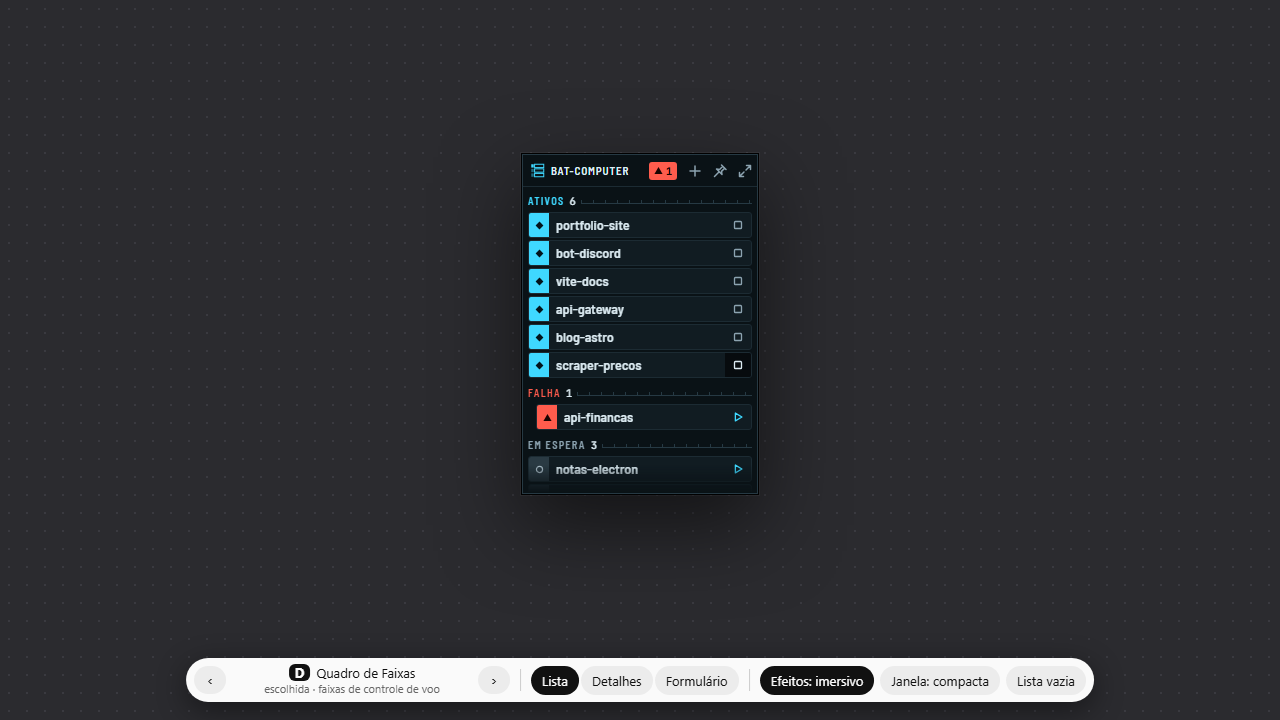
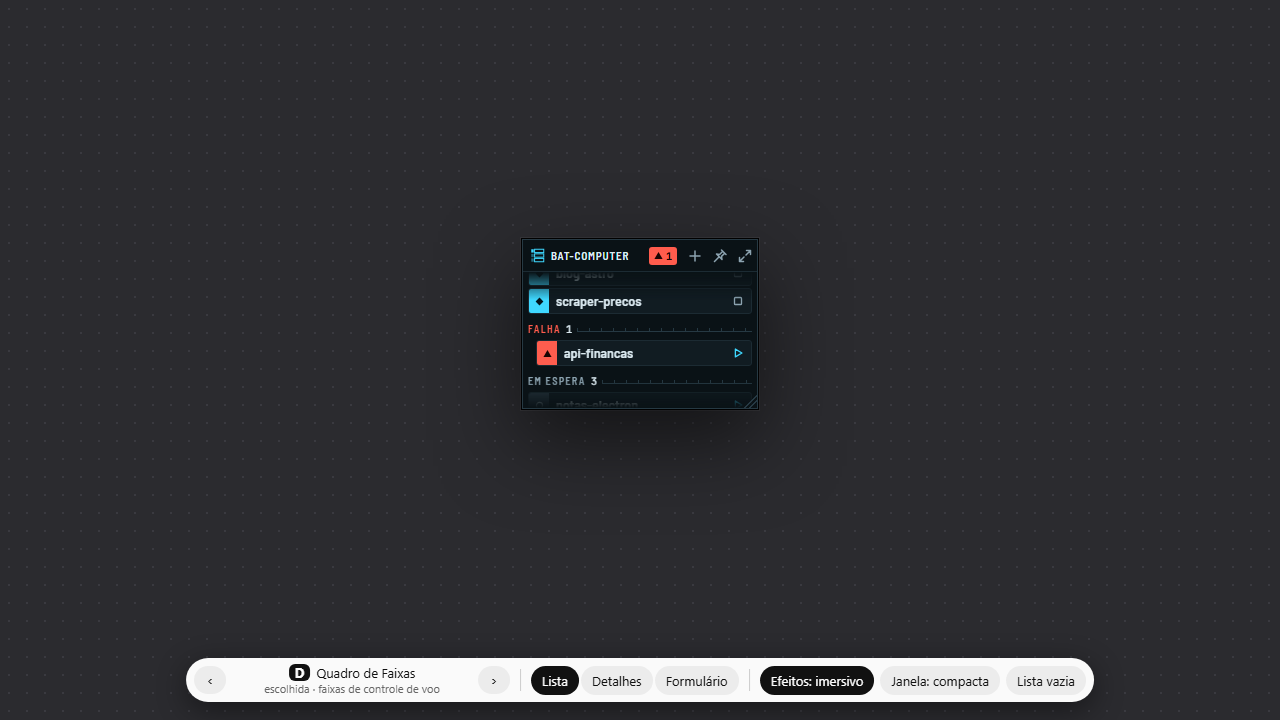
prototype(LUC-119): coluna compacta aprovada (236x170, redimensionável)

Changed region(s): [[0.4062, 0.2139, 0.5938, 0.7028]]

diff --git a/prototypes/luc-119-identidade-visual/index.html b/prototypes/luc-119-identidade-visual/index.html
@@ -577,7 +577,7 @@ body{background:#2b2b2f;background-image:radial-gradient(#3a3a40 1px,transparent
 .vD .d-menu .danger{color:var(--red)}
 .vD .toast{background:var(--face2);border:1px solid var(--line);border-radius:3px;padding:8px 14px;font-size:13px;box-shadow:0 10px 28px rgba(0,0,0,.55)}
 .vD.size-c{overflow:visible}
-.vD .m-box{width:236px;height:340px;display:grid;grid-template-rows:32px minmax(0,1fr);background:var(--rack);border:1px solid var(--line)}
+.vD .m-box{width:236px;height:170px;min-width:200px;min-height:110px;max-width:420px;max-height:640px;resize:both;overflow:hidden;display:grid;grid-template-rows:32px minmax(0,1fr);background:var(--rack);border:1px solid var(--line)}
 .vD .m-head{display:flex;align-items:center;gap:1px;padding:0 3px 0 7px;border-bottom:1px solid var(--rule)}
 .vD .m-grip{flex:1;min-width:0;display:flex;align-items:center;gap:6px;height:24px;color:var(--cyan);cursor:grab}
 .vD .m-grip b{font:600 11px "Barlow Semi Condensed",sans-serif;letter-spacing:.08em;text-transform:uppercase;color:var(--ink);white-space:nowrap}
@@ -587,6 +587,7 @@ body{background:#2b2b2f;background-image:radial-gradient(#3a3a40 1px,transparent
 .vD .m-alert{display:inline-flex;align-items:center;gap:3px;height:18px;padding:0 5px;margin-right:2px;border:0;border-radius:3px;background:var(--red);color:var(--on-red);font:700 10.5px "JetBrains Mono",monospace;flex:none}
 .vD .m-alert .sh{width:9px;height:9px}
 .vD .m-list{overflow-y:auto;padding:3px 5px 6px;display:flex;flex-direction:column;gap:2px}
+.vD .m-box::-webkit-resizer{background:linear-gradient(135deg,transparent 55%,var(--line) 55% 62%,transparent 62% 72%,var(--line) 72% 79%,transparent 79%)}
 .vD .m-list.ovf-b{-webkit-mask-image:linear-gradient(#000 calc(100% - 28px),transparent);mask-image:linear-gradient(#000 calc(100% - 28px),transparent)}
 .vD .m-list.ovf-t{-webkit-mask-image:linear-gradient(transparent,#000 28px);mask-image:linear-gradient(transparent,#000 28px)}
 .vD .m-list.ovf-t.ovf-b{-webkit-mask-image:linear-gradient(transparent,#000 28px,#000 calc(100% - 28px),transparent);mask-image:linear-gradient(transparent,#000 28px,#000 calc(100% - 28px),transparent)}
@@ -1092,7 +1093,7 @@ function dMini(){
     const xs = ps.filter(f);
     return xs.length ? `<div class="m-bayh b-${k}"><h3>${label}</h3><span class="n">${xs.length}</span><span class="rule"></span></div>${xs.map(mStrip).join('')}` : '';
   }).join('');
-  return `<div class="m-box" role="region" aria-label="Bat-Computer compacto">
+  return `<div class="m-box" role="region" aria-label="Bat-Computer compacto"${S.miniSize ? ` style="width:${S.miniSize.w}px;height:${S.miniSize.h}px"` : ''}>
     <header class="m-head" data-tauri-drag-region>
       <span class="m-grip" title="Arraste para mover" data-tauri-drag-region>${MARK.replace('width="18" height="18"', 'width="15" height="15"')}<b>Bat-Computer</b></span>
       ${n.err ? `<button class="m-alert" data-act="open-err" title="Ver a falha" aria-label="${n.err} em falha">${SHAPE.err}${n.err}</button>` : ''}
@@ -1155,6 +1156,8 @@ function render(){
     const st = app.querySelector('.m-list'), ck = app.querySelector('.m-strip.cocked');
     if (st && ck) { const y = ck.offsetTop - st.offsetTop, fade = 32; if (y < st.scrollTop + fade || y + ck.offsetHeight > st.scrollTop + st.clientHeight - fade) st.scrollTop = y - st.clientHeight / 2; }
     miniOverflow();
+    const box = app.querySelector('.m-box');
+    if (box) { render.ro?.disconnect(); render.ro = new ResizeObserver(() => { S.miniSize = { w: box.offsetWidth, h: box.offsetHeight }; miniOverflow(); }); render.ro.observe(box); }
   }
   tick(true);
   renderBar();

diff --git a/.impeccable/surfaces/prototypes-luc-119-identidade-visual-index-html.md b/.impeccable/surfaces/prototypes-luc-119-identidade-visual-index-html.md
@@ -33,14 +33,16 @@ FINISH: unreviewed and undocumented is unfinished; this build ends with the fini
 
 ## Modo compacto (contrato)
 
-THESIS: o quadro deitado. A janela encolhe para uma barra de ~36px de altura que mora na borda da tela; cada projeto é uma faixa curta lado a lado, na ordem das baias (ativos, falha, espera), separadas por um traço. Recusa o widget de ícones soltos e o menu da bandeja.
+Aprovado pelo usuário em 2026-10-24, depois de descartar a barra deitada (horizontal) em favor de uma lista vertical com altura fixa e rolagem.
 
-OWN-WORLD: o mesmo do Quadro de Faixas: suporte colorido com forma, face #111C22, réguas de 1px, régua de tiques na base da barra, Barlow + JetBrains Mono. Sem halo, sem pulso.
+THESIS: a janela pequena encolhida. A mesma janela vira uma coluna de 236×170px (redimensionável de 200×110 até 420×640) que mora num canto da tela; as baias e as faixas de sempre, menores, com rolagem vertical. Recusa a barra deitada, o widget de ícones soltos e o menu da bandeja.
 
-STORY: com o editor aberto, o usuário bate o olho na barra, liga ou desliga um projeto com um clique e percebe na hora quando algo cai (contador vermelho ▲ e a faixa sobe 4px fora da linha).
+OWN-WORLD: o mesmo do Quadro de Faixas: suporte colorido com forma, face #111C22, réguas de 1px com tiques nos cabeçalhos de baia, Barlow + JetBrains Mono. Sem halo, sem pulso.
 
-FIRST VIEWPORT: alça de arrastar com a marca, alfinete (fixar no topo), contador de falha quando houver; faixas de 26px numa linha só (suporte 22px, nome, botão 26px; o estado fica na forma, na cor e no grupo, com o texto no title); expandir na ponta direita. Clicar no nome expande direto no log daquele projeto.
+STORY: com o editor aberto, o usuário bate o olho na coluna, liga ou desliga um projeto com um clique e percebe na hora quando algo cai (contador vermelho ▲N no cabeçalho, faixa deslocada 8px na baia FALHA e a lista rola sozinha até ela).
 
-FORM: Barra de faixas, item 3 da lista de estruturas; seed 019a0d38. Movimento: a mesma FLIP do quadro, agora na horizontal.
+FIRST VIEWPORT: cabeçalho de 32px (marca + BAT-COMPUTER como alça de arrastar, ▲N quando houver falha, + novo projeto, alfinete para fixar no topo, expandir); baias com cabeçalho de 18px (nome, contagem, régua), só as que têm faixas; faixas de 26px com ícone de estado (suporte de 20px), nome e botão ligar/desligar de 26px. Sem tempo rodando: o estado é o ícone (forma + cor) e o grupo de baia; a palavra fica no title e para leitores de tela. Transbordo: rolagem vertical com esmaecimento de 28px em cima/embaixo. Clicar no nome expande direto no log daquele projeto, no tamanho anterior.
+
+FORM: Coluna de faixas finas (item 1 da lista de estruturas, rodada 019a0d38), pedida pelo usuário no lugar da Barra de faixas sorteada. Movimento: a mesma FLIP do quadro, só quando o tamanho não muda.
 
 FINISH: unreviewed and undocumented is unfinished; this build ends with the finish review, the verdict, DESIGN.md, and every shipping raster carrying its provenance
